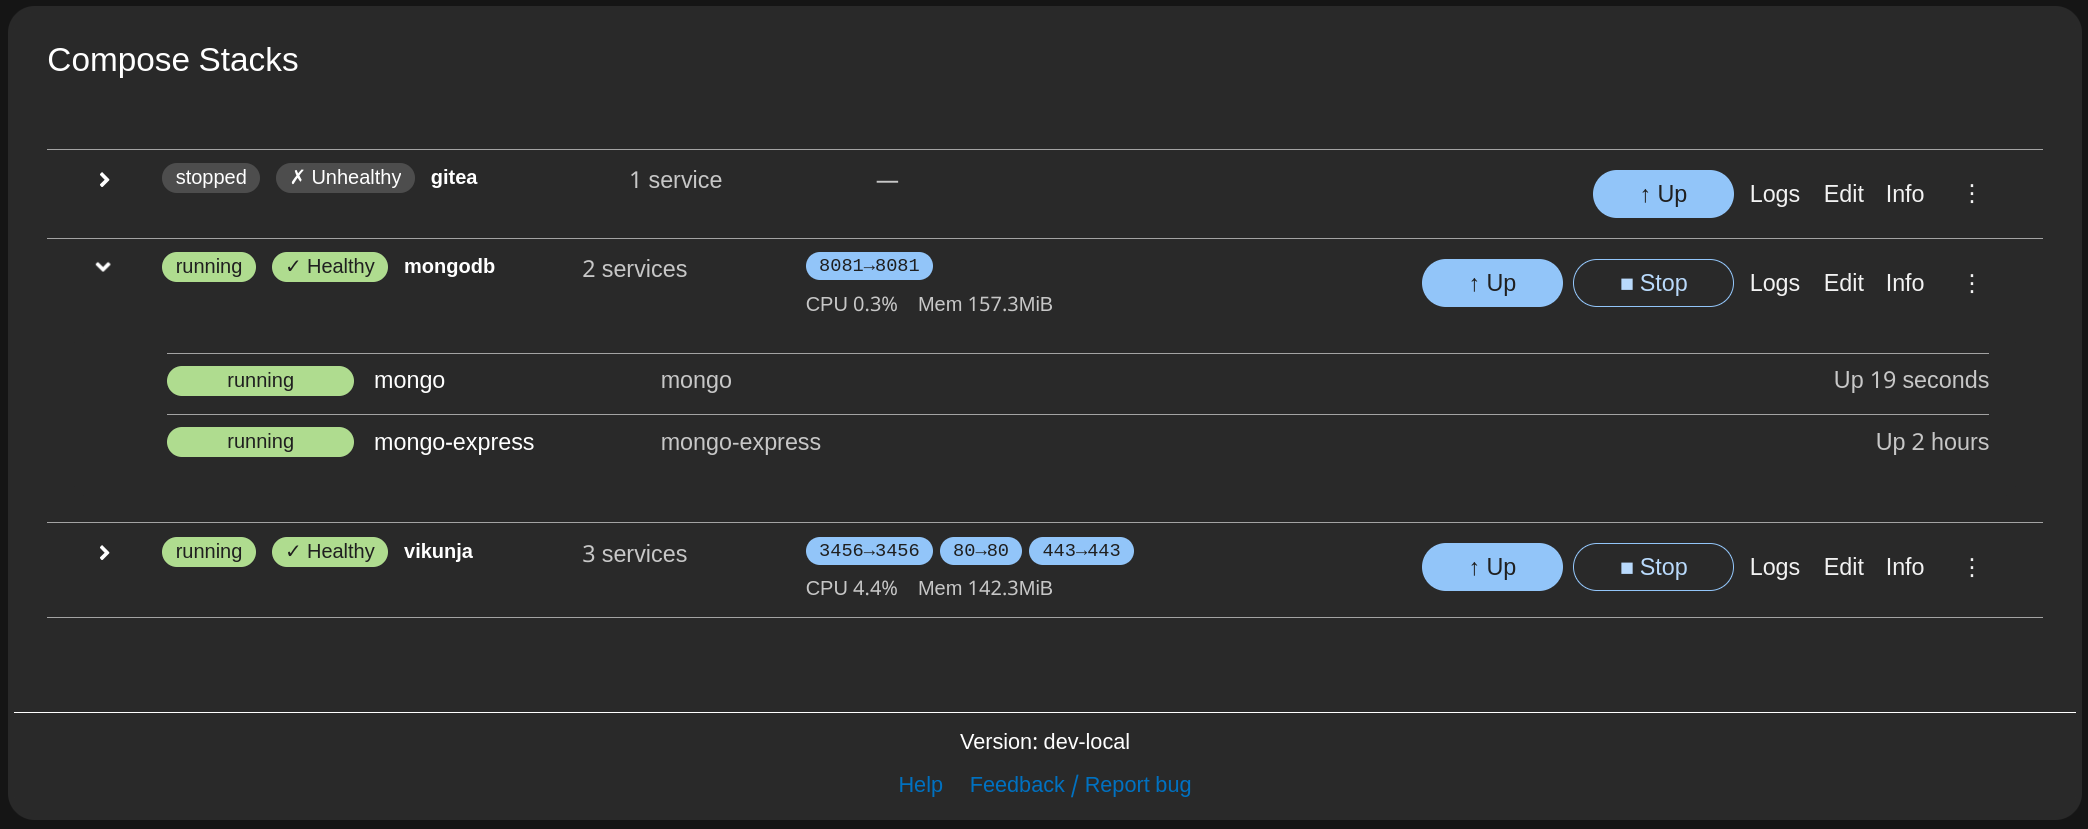
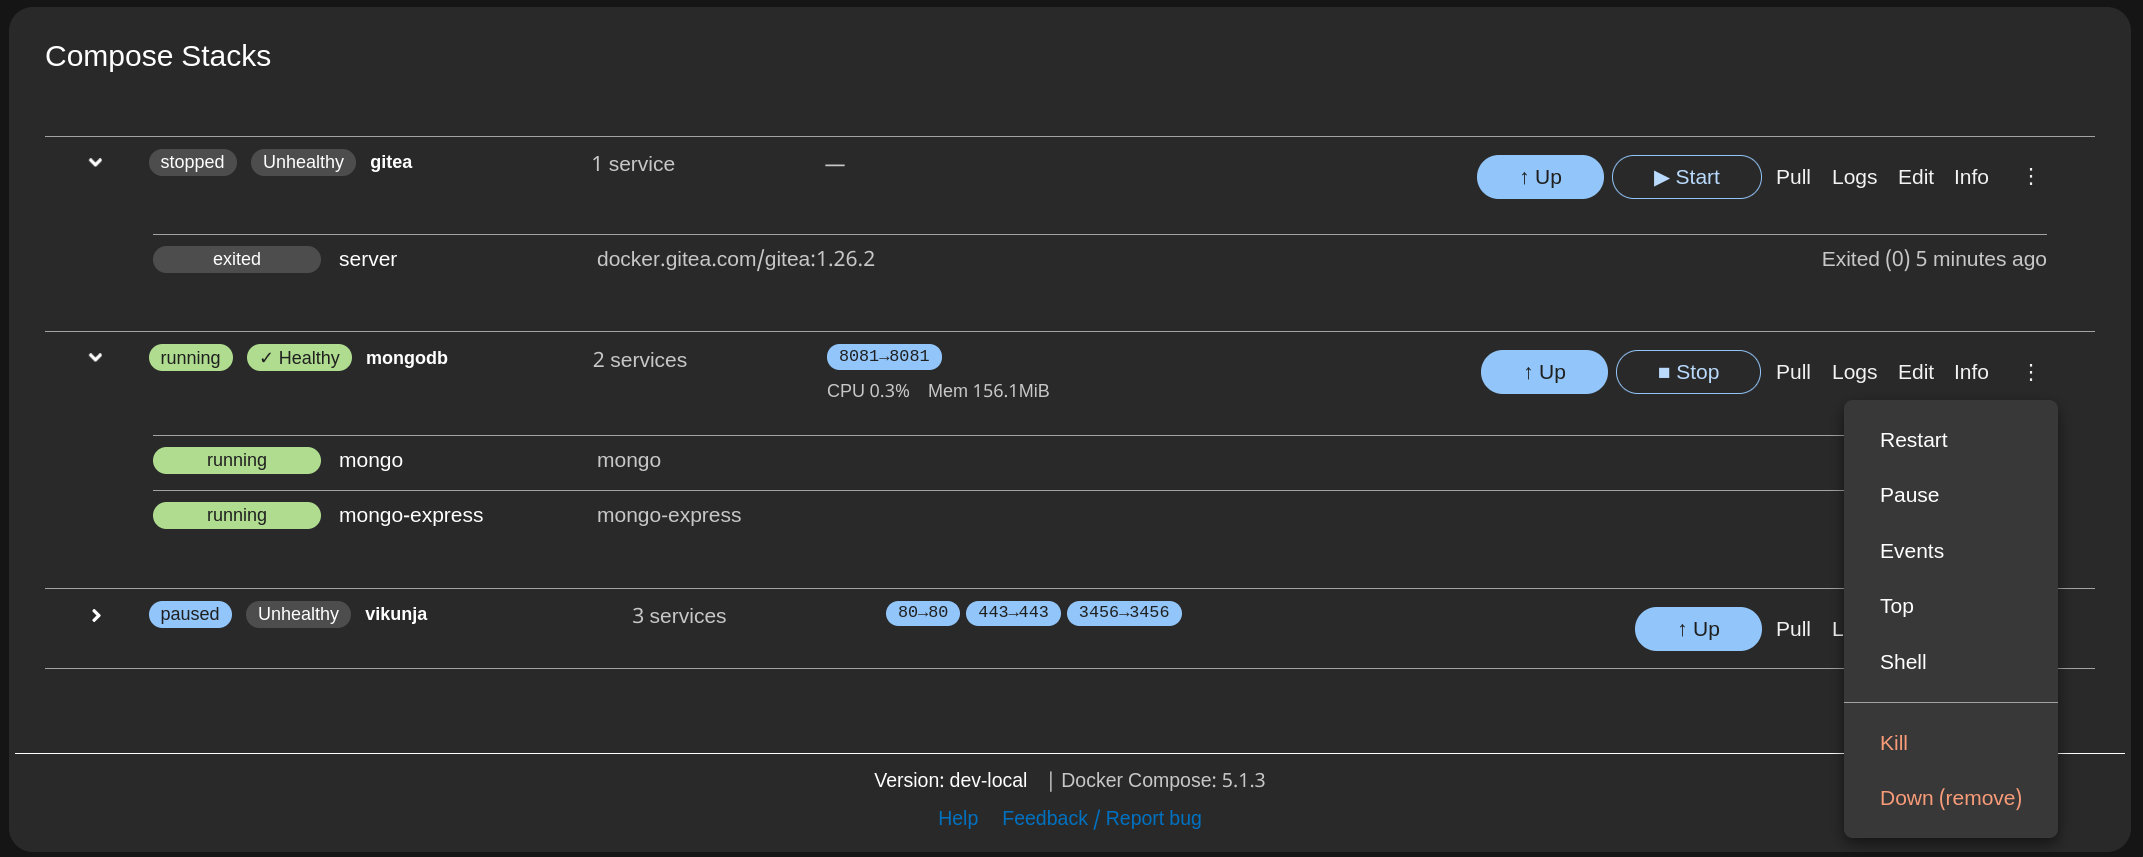
docs: update screenshot and small character adjustement in stacksview

diff --git a/src/components/StacksView/StackRow.tsx b/src/components/StacksView/StackRow.tsx
@@ -86,7 +86,7 @@ export function StackRow({ stack, expanded, onToggle, onLogs, onYaml, onInfo, on
                   color={health === "healthy" ? "green" : health === "partial" ? "orange" : "grey"}
                   isCompact
                 >
-                  {health === "healthy" ? "✓ Healthy" : health === "partial" ? "⚠ Partial" : "✗ Unhealthy"}
+                  {health === "healthy" ? "✓ Healthy" : health === "partial" ? "⚠ Partial" : "Unhealthy"}
                 </Label>
                 <span id={`stack-${stack.Name}`} className="sr-stack-name">
                   {stack.Name}
